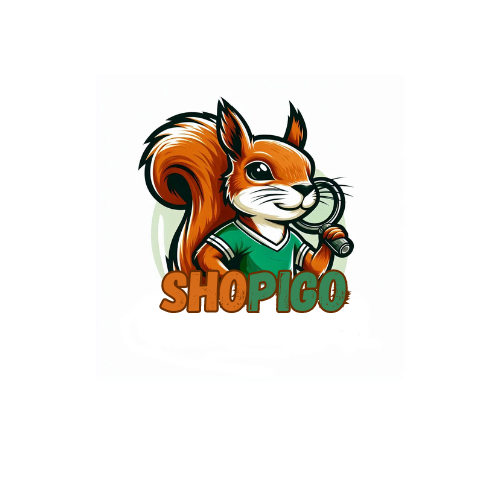
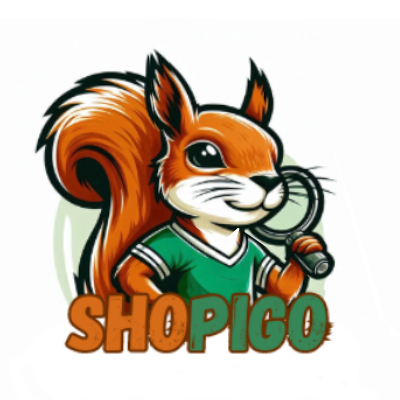
progres on the animation

diff --git a/src/CursorFollower.js b/src/CursorFollower.js
@@ -1,6 +1,7 @@
 import React, { useState, useEffect, useRef } from 'react';
 import './CursorFollower.css';
 import portraitImage from './image.png'; 
+import middleImage from './image2.png'; 
 
 const CursorFollower = () => {
   const [angle, setAngle] = useState(0);
@@ -10,7 +11,7 @@ const CursorFollower = () => {
     const handleMouseMove = (event) => {
       if (headRef.current) {
         if (event.clientX > window.innerWidth / 2) {
-          caclMaxHeadAngle(event, 3)
+          caclMaxHeadAngle(event, 2.8)
         } else if (event.clientX > window.innerWidth / 2.5) {
           caclMaxHeadAngle(event, 2.5)  
         } else if (event.clientX > window.innerWidth / 3) {
@@ -41,7 +42,8 @@ const CursorFollower = () => {
     <div className="main-container">
     <div className="portrait-container">
       <img src={portraitImage} alt="portrait" className="portrait" />
-
+      <div className="head-image-bg"></div>
+      <img src={middleImage} alt="middle" className="head-image-bg" />
       <div
         ref={headRef}
         className="head"
@@ -49,6 +51,7 @@ const CursorFollower = () => {
           transform: `rotate(${angle}deg)`, 
         }}
       >
+        {/* <img src={middleImage} alt="middle" className="head-image-bg" /> */}
         <img src={portraitImage} alt="head" className="head-image" />
       </div>
     </div>

diff --git a/src/CursorFollower.css b/src/CursorFollower.css
@@ -1,14 +1,14 @@
 .portrait-container {
   position: relative;
-  width: 500px; 
-  height: 600px; 
+  width: 400px; 
+  height: 400px; 
   margin: auto;
   overflow: hidden;
 }
 
 .portrait {
-  width: 100%;
-  height: 100%;
+  width: 100%; 
+  height: 100%; 
   object-fit: cover;
   position: absolute;
   top: 0;
@@ -29,13 +29,19 @@
   width: 100%;
   height: 100%;
   object-fit: cover;
+  clip-path: polygon(87% 9%, 85% 75%, 61% 56%, 57% 63%, 43% 55%, 38% 47%, 36% 9%);
+  z-index: 2;
+}
 
-  clip-path: polygon(
-    38% 5%,
-      55% -50%,
-      75% 52%, 
-      46% 46% 
-    )
+.head-image-bg{
+  width: 100%; 
+  height: 100%; 
+  object-fit: cover;
+  position: absolute;
+  top: 0;
+  left: 0;
+  background-color: white;
+  clip-path: polygon(87% 8%, 85% 75%, 58% 56%, 57% 63%, 43% 55%, 38% 47%, 36% 9%);
 }
 
 .main-container{
